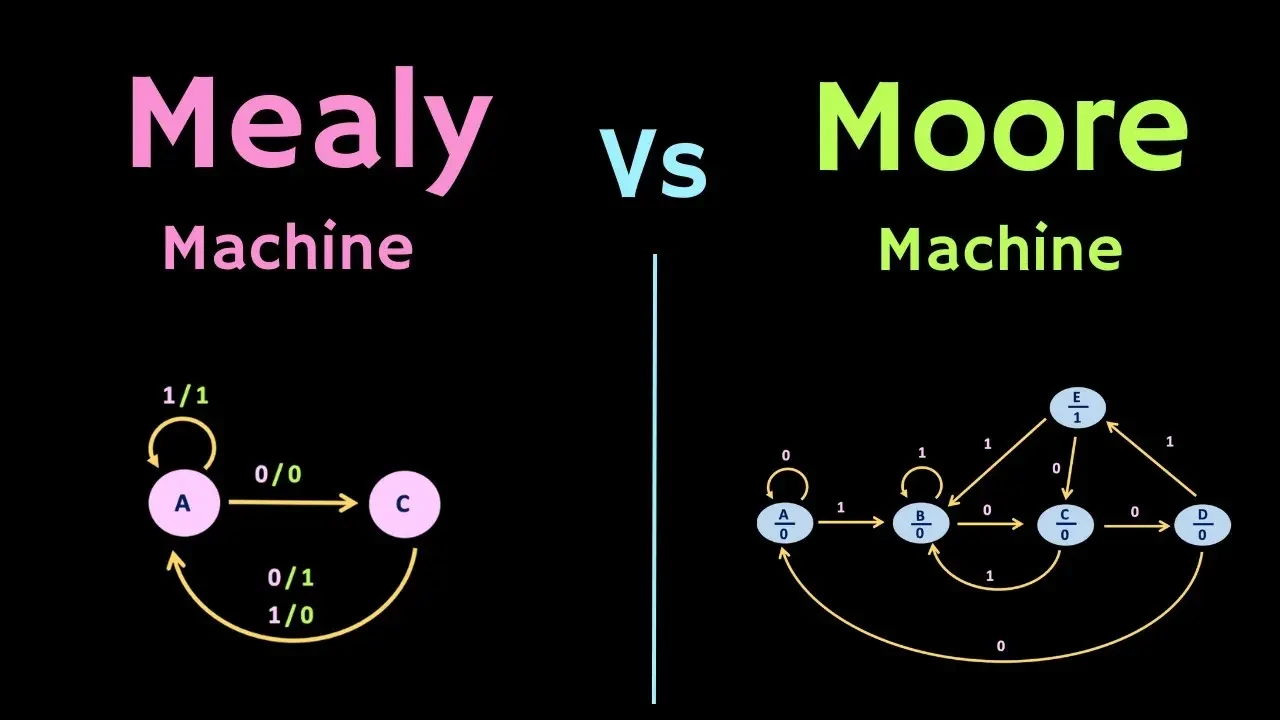
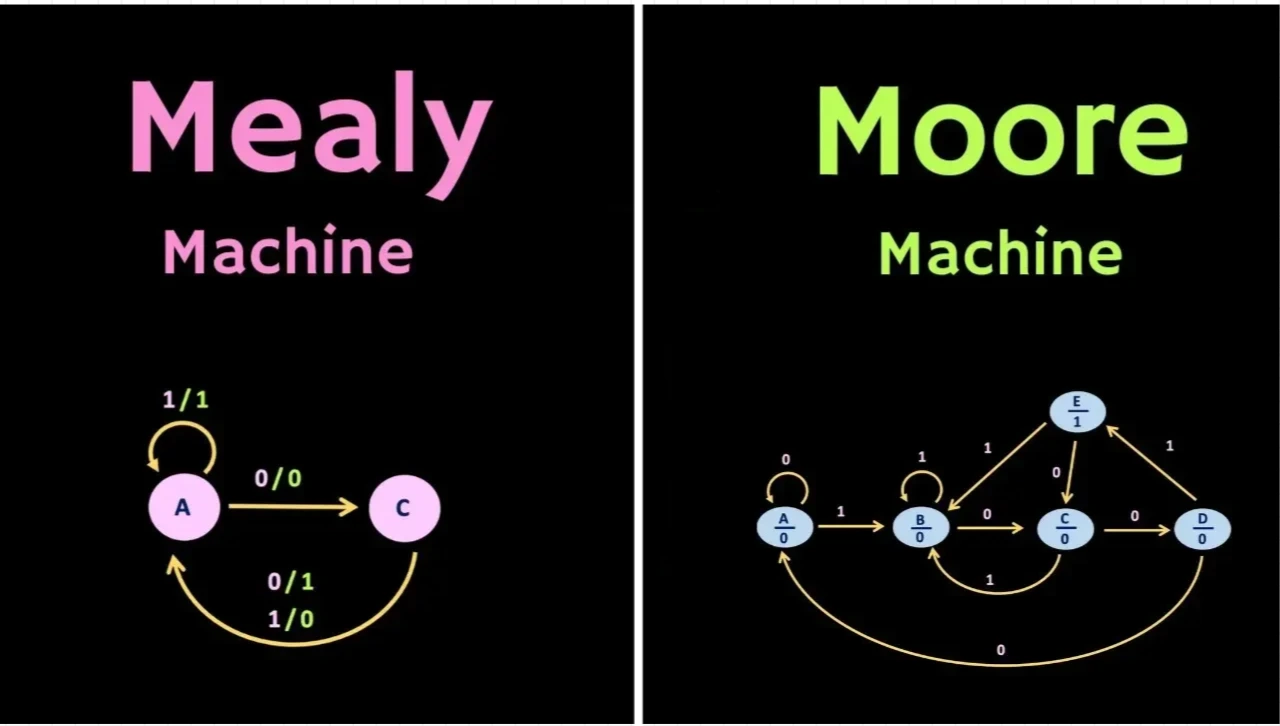
File sincronizati! :)

diff --git a/Anno 1/1 Architettura degli elaboratori/03 Logica Sequenziale/Procedura di progetto di una FSM.md b/Anno 1/1 Architettura degli elaboratori/03 Logica Sequenziale/Procedura di progetto di una FSM.md
@@ -10,12 +10,9 @@ aliases:
   - progetto di una FSM
   - diagramma degli stati
 ---
-Le macchine a stati finiti sono un modo potente e **sistematico** per progettare
-circuiti sequenziali partendo da una specifica scritta. Questa è la ricetta da seguire
-(e da usare come checklist in esame).
+Le [[Macchine a stati finiti - Moore e Mealy|macchine a stati finiti]] sono un modo potente e **sistematico** per progettare circuiti sequenziali partendo da una specifica scritta.
 
 ## I passi
-
 1. **Identifica ingressi e uscite.**
 2. **Abbozza un diagramma di transizione di stato.**
 3. Scrivi le tabelle:
@@ -24,16 +21,13 @@ circuiti sequenziali partendo da una specifica scritta. Questa è la ricetta da 
      - tabella di uscita;
    - per una macchina di **Mealy**:
      - tabella **combinata** di transizione di stato e uscita.
-4. **Scegli la codifica degli stati.** La scelta influenza il progetto hardware
-   risultante (→ [[Codifica degli stati - binaria e one-hot]]).
-5. **Scrivi le equazioni booleane** per la logica dello stato successivo e per la
+1. **Scegli la codifica degli stati.**[[Codifica degli stati - binaria e one-hot|La scelta influenza il progetto hardware risultante]].
+2. **Scrivi le equazioni booleane** per la logica dello stato successivo e per la
    logica di uscita.
-6. **Disegna lo schema del circuito.**
+3. **Disegna lo schema del circuito.**
 
-## Il procedimento inverso: dallo schema al diagramma
-Ricavare il diagramma di transizione partendo da uno schema segue quasi esattamente
-il procedimento a rovescio:
-
+## Dallo schema al diagramma
+Ricavare il diagramma di transizione partendo da uno schema segue quasi esattamente il procedimento a rovescio:
 1. **Esamina il circuito**, individuando ingressi, uscite e bit di stato.
 2. **Scrivi le equazioni** dello stato successivo e delle uscite.
 3. **Crea le tabelle** dello stato successivo e delle uscite.
@@ -60,11 +54,3 @@ Esempio tipico: una FSM "principale" che gestisce le fasi di un'operazione, più
 Senza decomposizione, gli stati del contatore andrebbero replicati dentro la macchina
 principale, moltiplicandone il numero.
 
-## Da ricordare
-- 6 passi in avanti, 8 passi a rovescio.
-- Eliminare gli stati non raggiungibili nel reverse engineering.
-- Decomporre riduce il numero di stati e rende il progetto leggibile.
-
-## Domande flash
-1. In quale passo la scelta di Moore o Mealy fa differenza?
-2. Perché una FSM con contatore separato ha meno stati di una monolitica?

diff --git a/Anno 1/1 Architettura degli elaboratori/03 Logica Sequenziale/Macchine a stati finiti - Moore e Mealy.md b/Anno 1/1 Architettura degli elaboratori/03 Logica Sequenziale/Macchine a stati finiti - Moore e Mealy.md
@@ -5,7 +5,7 @@ tags:
   - logica_sequenziale
 Link risorse:
 Libro: '"Digital Design and Computer Architecture" Capitolo 3.4'
-Imparato: false
+Imparato: true
 Ordine: 307
 aliases:
   - FSM
@@ -35,12 +35,12 @@ numero **finito** di stati, precisamente $2^k$.
 > - Diagramma: se le uscite sono **nei cerchi** è Moore, se sono **sugli archi** è Mealy.
 > - Schema: se esiste un cammino combinatorio **diretto** dagli ingressi alle uscite (che non passa per il registro), è Mealy.
 
-![[Macchine a stati finiti - Moore e Mealy-1787495941186.webp]]
+![[Macchine a stati finiti - Moore e Mealy-1787496585407.webp|800]]
 
 ## Diagramma di transizione di stato
 - I **cerchi** rappresentano gli **stati**.
 - Gli **archi** rappresentano le **transizioni** tra stati.
-- Le transizioni avvengono **sul fronte di salita del clock**; il clock **non si
+- Le transizioni avvengono **sul fronte di salita del [[Timing sequenziale - setup hold e clock skew|clock]]**; il clock **non si
   disegna**, perché in un circuito sequenziale sincrono è sempre presente per
   definizione.
 - L'arco etichettato **Reset**, che entra in uno stato "venendo dal nulla", indica lo
@@ -57,15 +57,4 @@ numero **finito** di stati, precisamente $2^k$.
 - Per una macchina di **Mealy** si scrive **una tabella combinata** di transizione e
   uscita, perché le uscite dipendono anche dagli ingressi.
 
-## Da ricordare
-- $k$ registri ⇒ fino a $2^k$ stati.
-- Moore: uscite = f(stato). Mealy: uscite = f(stato, ingressi).
-- Nel diagramma: Moore → uscite nei cerchi; Mealy → uscite sugli archi.
-- Un solo arco uscente = transizione incondizionata.
-
-## Domande flash
-1. Una FSM di Mealy con 3 stati equivale a una di Moore con quanti stati?
-   (dipende: in generale servono più stati per "ricordare" l'ingresso)
-2. Perché il clock non appare nel diagramma di transizione?
-
-Collegato a: [[Procedura di progetto di una FSM]] · [[Codifica degli stati - binaria e one-hot]]
+![[Macchine a stati finiti - Moore e Mealy-1787496975053.webp]]
